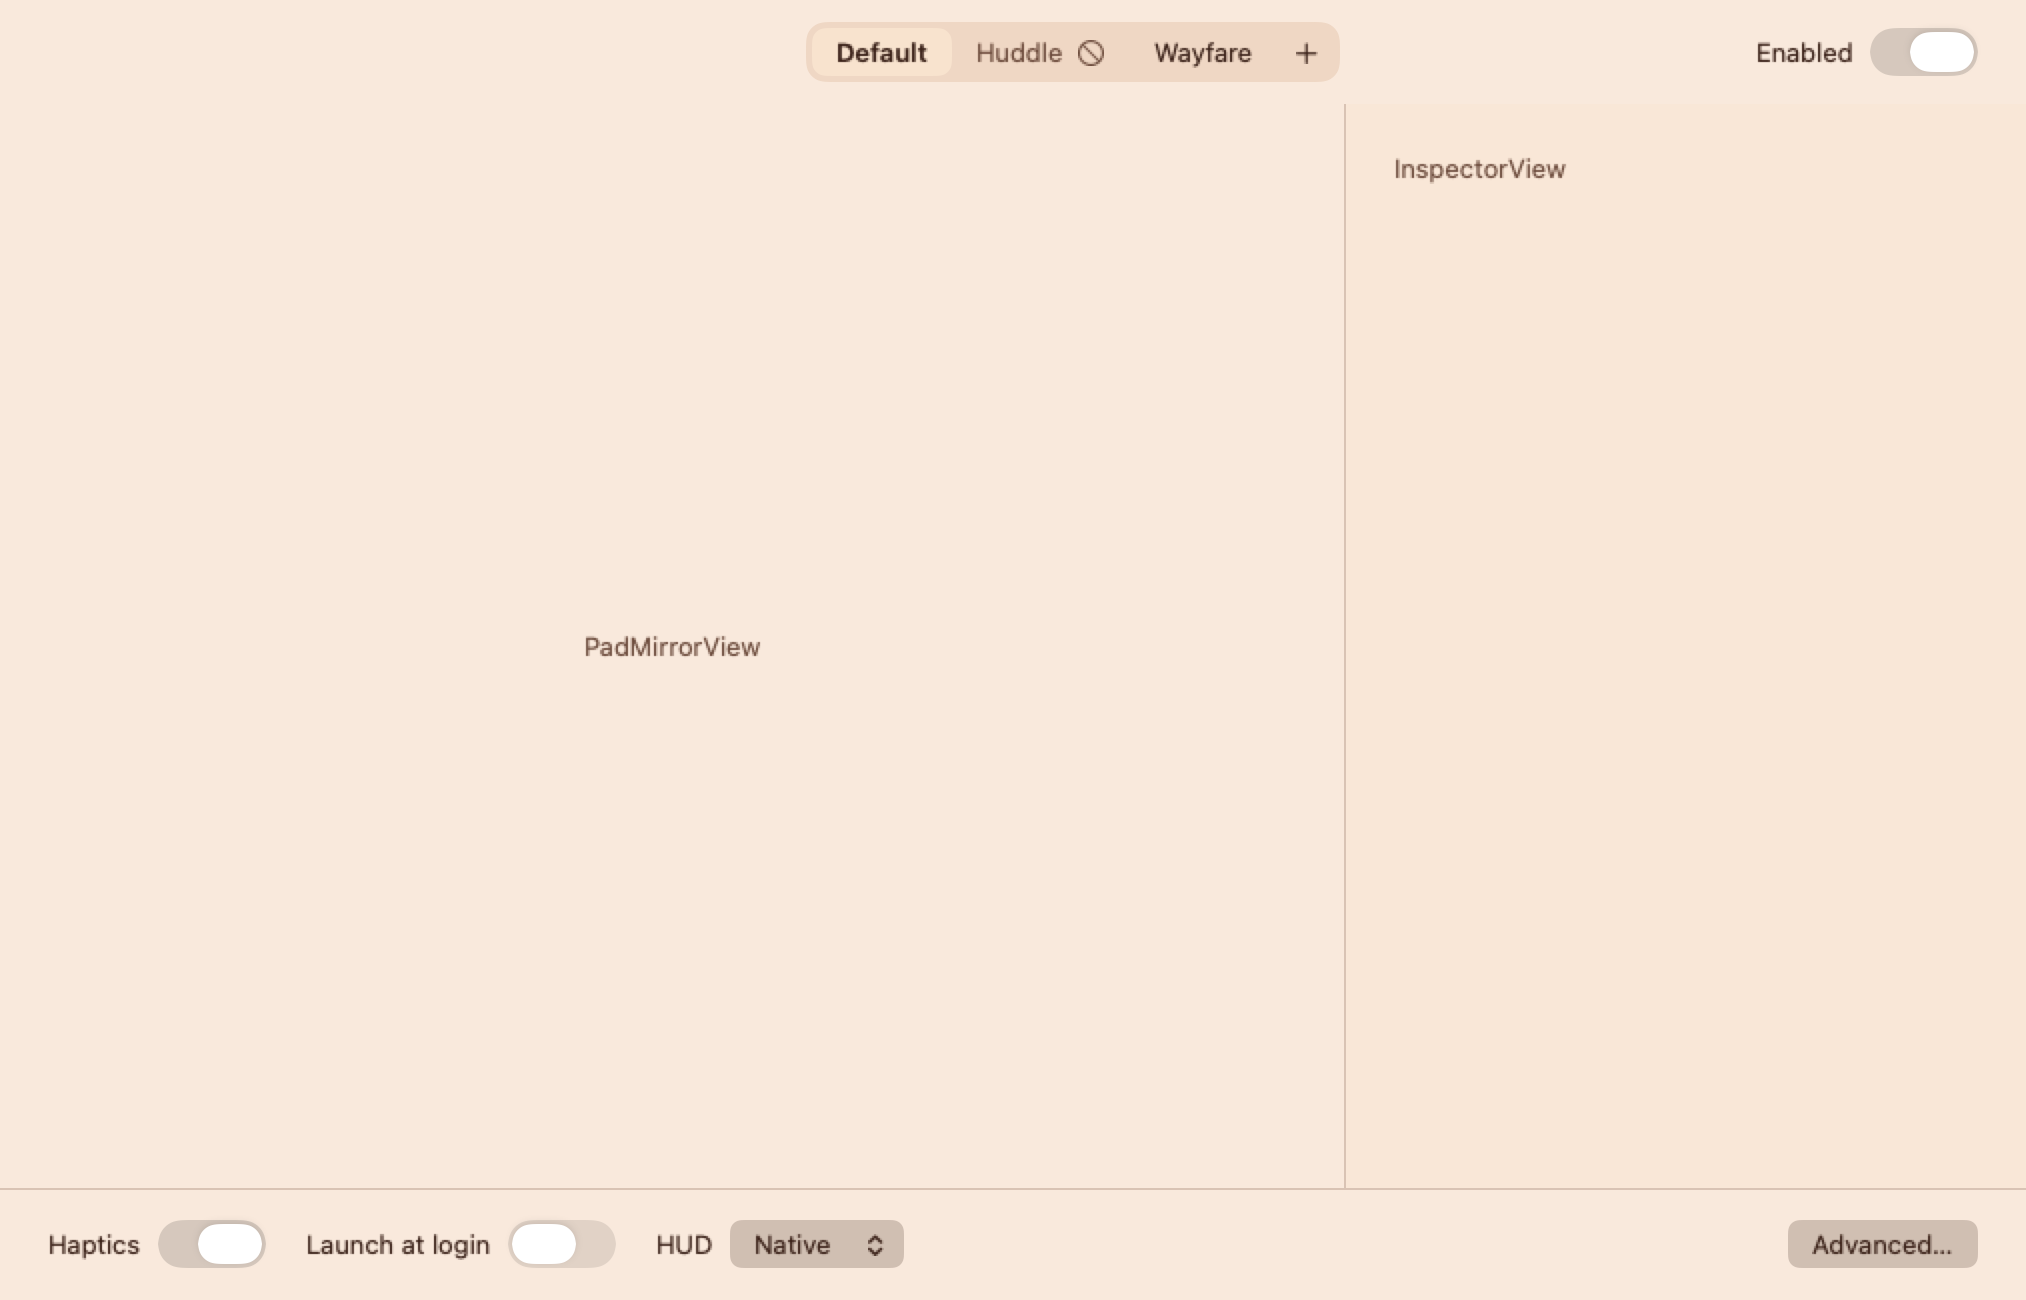
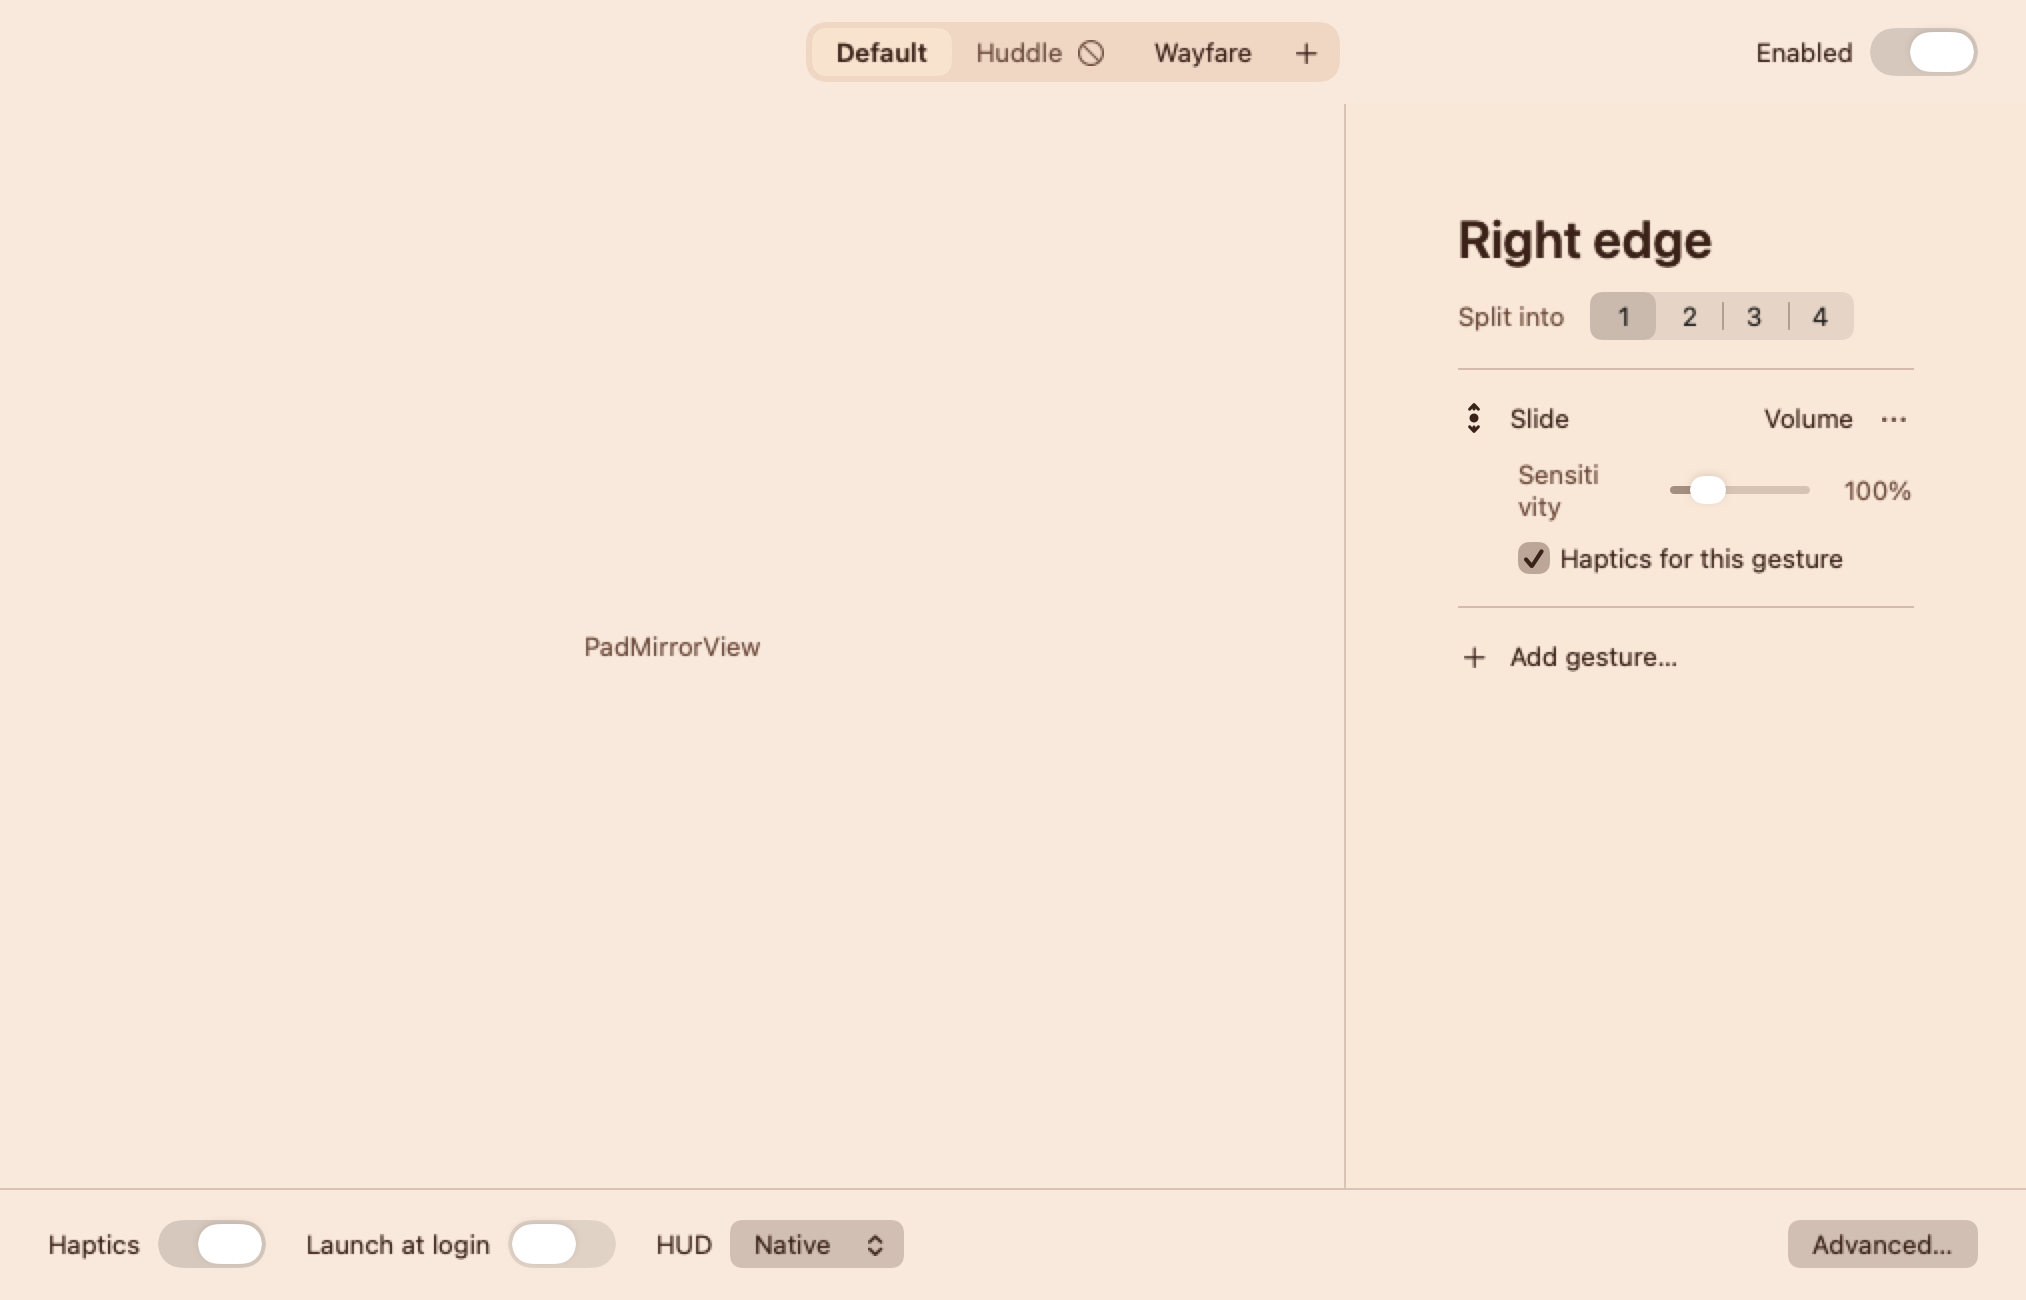
chief: picker hosted in the window; overlap note lives in the inspector only; re-shot batch 16 with the real inspector; BRAND.md (design session)

diff --git a/Sources/EdgyUI/Window/SettingsWindowView.swift b/Sources/EdgyUI/Window/SettingsWindowView.swift
@@ -49,6 +49,7 @@ public struct SettingsWindowView: View {
         inspectorColumn(status)
       }
       .disabled(status.isReadOnly)
+      .actionPickerHost(model: model)
       footer.disabled(status.isReadOnly)
     }
     .font(Tokens.font(Tokens.typeBody))
@@ -203,9 +204,6 @@ public struct SettingsWindowView: View {
       if !status.hidesInspector {
         if case .app(let id) = model.selectedProfile, model.isLegacyProfile(model.selectedProfile) {
           LegacyNoteView { model.followDefault(bundleID: id) }
-        }
-        if let overlap = model.selectedZoneOverlap {
-          OverlapNoteView(note: overlap) { model.selectedZone = overlap.other }
         }
         InspectorView(model: model)
       }

diff --git a/docs/BRAND.md b/docs/BRAND.md
@@ -1,0 +1,248 @@
+# Edgy brand book
+
+Start here before you make anything that looks or sounds like Edgy: app UI, an icon, a screenshot, the website, the landing page, a social post, a launch video.
+
+- **Product UI:** `docs/BRIEF.md` § Design is canonical. It holds the exact tokens, the 10 bones (hard rules every UI PR is checked against), every surface spec and the copy tables. This book summarises it and never overrides it. **When this file and BRIEF disagree, BRIEF wins.**
+- **Everything outside the app** (website, landing page, social, README screenshots): this book is the guide. See § Applying it outside the app.
+
+---
+
+## What Edgy is
+
+**Every edge and corner of your trackpad, mapped to whatever you want.** An open-source (MIT) macOS menu-bar app.
+
+## Personality
+
+- **A warm, friendly object you like seeing.** Not a tool panel, not a dashboard. Something you're glad to find in your menu bar.
+- **Trust.** Edgy acts on your volume, your music and your windows while you're on a call or mid-sentence. The design sells one feeling: it does exactly what you meant.
+- **Nothing fires by accident.** Every rejected touch has a reason, a measurement and a limit, and Edgy will tell you which. Showing that it said no is as much the brand as showing that it said yes.
+- **Calm and exact, never cold.** Real units (mm, ms), real numbers, plain words. Warmth comes from material and colour, not from jokes or exclamation marks.
+
+## The look
+
+**Warm glass that borrows your desktop's colour, with one rust accent that means "live".**
+
+- The window, the popover and the overlay plates are translucent material tinted by what's behind them. Edgy owns no palette: your wallpaper supplies the colour; Edgy supplies an ink colour and one accent.
+- The trackpad is drawn as a **mirror**: to scale, in its real orientation, a softly lit slab with subtle depth. You map gestures by clicking zones on that mirror.
+- **One hue.** No blue selection, no amber warning, no red error. Hierarchy comes from type size, weight, shape and the single accent.
+
+**Why this look.** It was picked on taste in all three rounds of the design sprint, over a blueprint direction, a blueprint/glass fusion and four riskier skins. The critic score went from 5/10 to 7/10 as the structure (the bones) was fixed underneath it. The product needs both things this look gives: an editor you trust, and a menu-bar presence you like.
+
+---
+
+## Colour
+
+### Tokens
+
+Copied from `docs/BRIEF.md` § Tokens. **BRIEF is canonical; if a value here ever differs, BRIEF wins.** In code, use `Tokens.swift` (transcribed from BRIEF), never literals.
+
+| Token | Light | Dark | Use |
+|---|---|---|---|
+| `ink` | `#3B2219` | `#FBEADB` | primary text, selection ring, glyph |
+| `ink2` | `#6B4A3B` | `#D9BFAE` | secondary text (must still be ≥4.5:1 on its actual background) |
+| `accent` / live | `#B4542B` | `#B4542B` | **only:** recognized touch, the live zone, ON switches, the icon dot |
+| `bar` (mapped edge) | `#D9AE8C` | `#7A5646` | mapped zone fill |
+| `line` (outlines) | `#8E6B58` | `#A58676` | unmapped hairlines, dashed pass-through (≥3:1 on the pad) |
+| pad slab | `#F8E3CE → #EFCCAB` | `#4A3026 → #3A251D` | the mirror's surface, top-left lit |
+| window material | warm translucent, ~0.8 opacity over blur | `rgba(42,27,21,.82)` | system window material tinted warm; never let text drop below 4.5:1 |
+
+### The accent rule
+
+Rust `#B4542B` means **live** and nothing else:
+- a recognized touch (the filled contact on the mirror or an overlay plate),
+- the zone being touched right now (a thin accent border on the lit bar),
+- ON switches, the key recorder while it's recording, the level bar,
+- the contact dot on the app icon.
+
+It is the same value in light and dark. It never marks selection (selection is an `ink` ring), never decorates, and never carries an error or warning. If you're tempted to use it for emphasis, use weight instead.
+
+**Warnings and errors** are told apart by icon and wording, never by colour: error = error icon + `ink`; warning = warning icon + `ink2`; info = info icon + `ink2`.
+
+### The material and the legibility rule
+
+- The material is the system's translucent window material, tinted warm. Over a busy or dark wallpaper it shifts with it, and that's the point.
+- **Legibility beats translucency, always.** Every line of text sits on enough opacity to reach ≥4.5:1 against what's actually behind it (≥3:1 for outlines on the pad). If a wallpaper breaks that, add opacity, not a second colour.
+- Overlay plates must read over both a light and a dark document. That's the worst-case test frame.
+- No glass stacked on glass: one material layer, then content.
+
+---
+
+## Type
+
+- **The system font only.** One family. No display face, no serif, no monospace in the UI.
+- **One scale:** **11 / 13 / 17 / 26**.
+  - **11:** picker group headers only.
+  - **13:** everything else. **This is the floor**: no label, caption or plate text below 13.
+  - **17:** plate values ("Volume 64%"), the Continue button.
+  - **26:** the one confident line per surface: the selected zone's name, or the onboarding headline.
+- **Weights:** regular and semibold.
+- **Numerals:** proportional figures everywhere. No space before % ("64%", never "64 %"). Units take a space ("21 mm", "300 ms").
+- Labels are never rotated.
+
+## Shape
+
+- **Radii:** the window uses the system radius; controls 6–8; plates 12–14; zone bars have fully rounded ends. Never one radius for everything, and never a radius nested inside a radius.
+- **The pad drawing (the mirror):** to scale from the device's real sensor size, in the trackpad's orientation. A softly lit slab: top-left light, a soft lower edge, a touch that presses in slightly. No rulers, dimension lines or mm callouts; the outline is the measurement. No glow halos.
+- **Zone shapes** (state is carried by shape, not only colour):
+
+| State | Shape |
+|---|---|
+| Mapped edge | solid inset bar with rounded ends |
+| Unmapped edge | hairline outline |
+| Mapped corner | solid rounded square with its action icon inside |
+| Pass-through corner | dashed rounded square (dashed means pass-through and nothing else) |
+| Selected | `ink` ring around the zone |
+| Live | accent contact plus a thin accent border on the lit bar |
+| Recognized touch | filled accent contact |
+| Rejected touch | hollow, struck circle |
+
+- Labels join their zone: tabs growing from the strip in the same fill, no gap, never floating pills.
+- **Gesture icons:** one family, one stroke weight, one grid. Swipe up and swipe down must differ clearly. No emoji or Unicode arrows.
+
+---
+
+## Iconography
+
+### Menu-bar glyph: "Lit edge"
+
+A rounded-rectangle outline of the pad, open on the right, with a separate heavy vertical bar standing for the lit right edge. A monochrome template image, about 16 × 11 pt, tinted by the system for light, dark and highlighted bars.
+
+States change the **shape**, never the colour:
+
+| State | Glyph |
+|---|---|
+| Normal | outline plus the heavy right bar |
+| Test Mode | adds a small solid dot inside the outline (3.2 pt; must be ≥2 pt at 1×) |
+| Paused | the heavy bar becomes two short stacked dashes |
+| Disabled / No trackpad | normal artwork at 40% opacity (applied in code) |
+| No Accessibility / Broken config | the heavy bar becomes an exclamation (a short bar plus a dot) |
+
+Precedence when several apply: Broken config > No Accessibility > No trackpad > Paused > Disabled > Test Mode. Show the top one only.
+
+### App icon: "Exact"
+
+A pale-stone rounded tile with a gentle light-to-shade gradient, carrying a graphite line drawing of the pad at true proportion with a heavy right edge (the glyph, enlarged). At ≥128 px it adds one rust contact dot on the heavy edge; at 64 px and below there is no dot, and a heavier small-size drawing is used. No banding at the tile edge.
+
+### Where the assets live
+
+`docs/design/assets/` (spec and export notes in its `README.md`):
+- `glyph-<state>.pdf`: 7 template-image PDFs, 16 × 11 pt, pure vector.
+- `AppIcon.icns`, `AppIcon.iconset/`, `icon-1024.png`.
+- `svg/`: the vector sources (glyph per state, `app-icon.svg` with the dot as group `#contact-dot`, `app-icon-small.svg`).
+
+Use these files. Don't redraw the glyph or icon in code or in a web page; export from the SVG sources.
+
+### Open: the "CI" question (G1 device check)
+
+One critic read the glyph as the letters "CI" before reading it as a pad. The same reading is worth checking on the app icon at large sizes. **Judge both at real size, in the real menu bar and Dock, light and dark, before freezing them.** Until that check passes, treat the glyph and icon as provisional for marketing: don't build a logo lockup or wordmark around them.
+
+---
+
+## Voice and copy
+
+**Plain, specific, measured.** Name the thing, the number and the limit.
+
+- **One clause.** No colon headlines, no two-part lines, no slogans.
+- **Real units.** "21 mm", "300 ms", "47 min left". The number is the reassurance.
+- **Say it once,** next to the thing it describes. Don't restate a status in a caption, chip or footer.
+- **Inform, don't alarm.** Interaction notes use an info icon and calm wording; they never read as an error.
+- **Describe what the user feels,** not the mechanism ("Slide this far to move one app.").
+
+### Do
+
+- "Ignored: palm, 21 mm wide, limit 18 mm"
+- "Ignored: typing, last key 200 ms ago, limit 500 ms"
+- "These need a slide."
+- "Run one finger up the right edge."
+- "Tap waits 300 ms here to tell it from a double-tap."
+- "Let Edgy run your actions" (onboarding headline)
+- "Paused, 47 min left"
+- "Would set Volume" (Test Mode dry run)
+
+### Don't
+
+| Don't | Why |
+|---|---|
+| "Precision you can read: every zone has a real size." | Two-part oracular line, and a slogan |
+| "More actions coming soon" | Filler or roadmap copy |
+| "Right edge · 1 finger · recognized · Default profile" | Middot-chained metadata |
+| "Rejected!" / "Error: palm detected" | Alarm wording; no measurement, no limit |
+| "64 %" | Space before % |
+| "Test mode" pill next to the glyph | Restates what the glyph's dot already says |
+
+The full rejection-copy table (every reason, its measure and its limit) is in BRIEF bone 4.
+
+---
+
+## Kill list (never ship these)
+
+Copied from `docs/BRIEF.md` § Kill list; BRIEF wins.
+
+- Tracked micro-caps eyebrow labels.
+- A grey rounded rectangle with a drop shadow as the trackpad, or brushed metal.
+- A sidebar.
+- N equal cards, one per zone.
+- Gradient blobs, neon glow, or halos on the touch dot.
+- Emoji or Unicode arrows as gesture icons.
+- Middot-chained metadata strings.
+- Dimension lines or rulers.
+- A space before %.
+- More than one typeface family.
+- Rotated labels.
+- Hero numerals.
+- A launcher grid of round buttons.
+- Filler or roadmap copy ("more actions coming").
+- Generic coloured squares as app icons.
+- A second hue.
+- Any third-party product name or look-alike.
+
+---
+
+## Applying it outside the app
+
+The website, the landing page, social posts, launch video frames and README screenshots should feel like the app is sitting on the page. Translate the system; don't invent a second brand.
+
+- **Background:** warm, wallpaper-like fields: soft desert-dune tones (sand, clay, dusk) or a generic photographic wallpaper feel. The page plays the role of the user's desktop. Never a flat grey, never a gradient blob.
+- **Panels:** glass panels on that background, with enough opacity that text reaches ≥4.5:1 everywhere, including on narrow phone widths where the background shifts behind the text. One material layer; no glass on glass.
+- **Colour:** `ink` and `ink2` for text, rust `#B4542B` **only** for "live" (the touch on the hero mirror) or the single primary action (download / buy). One rust thing per view. No second hue, no link blue: links are `ink` with an underline.
+- **Type:** the system font stack, `font-family: system-ui, -apple-system, sans-serif;` (`-apple-system` is a CSS keyword, not a product name, and passes the denylist). Same scale idea: one 26-equivalent confident line per section (scale it up for a hero, but keep one size per role), body at the 13-equivalent floor or above, regular and semibold only.
+- **Hero:** the to-scale trackpad mirror with a live touch on it: the slab, the zone shapes, a rust contact sliding up the right edge, and a plate reading the real result ("Volume 64%" / "Right edge, slide"). Show a rejection too ("Ignored: palm, 21 mm wide, limit 18 mm"); it's the most convincing frame Edgy has.
+- **Headline:** one confident clause. No colon, no tagline pair, no slogan. "Every edge and corner of your trackpad, mapped to whatever you want." is the reference.
+- **Product names and imagery:** no third-party product names or logos, no device photos of branded hardware, no look-alike UI of other apps. Draw the trackpad as Edgy's own mirror, never photograph one. Screenshots must not show other apps' names or icons (use invented app names, as the design renders do).
+- **README screenshots:** capture the real app on a warm wallpaper, light and dark, at 2×. Crop to the window or the popover; don't add drop-shadow frames, device mockups or arrows.
+- **Social and video:** the overlay plates and the live mirror are the screenshot-able moments. Keep plate text ≥13-equivalent and the one accent; no lower-third sports graphics, no neon, no glow.
+- **The kill list applies to the web too.** Especially: no eyebrow micro-caps, no N equal feature cards, no hero numerals, no roadmap copy.
+- **Glyph and icon:** use the exported assets as they are (see Iconography). Respect the open "CI" check before building a logo around them.
+
+---
+
+## Assets index
+
+- **Final reference renders** (look 26F-1TVB), `docs/design/final/`:
+  - `26F-1TVB-A.png`: Settings editor, light
+  - `26F-1TVB-B.png`: Settings editor, dark, with the picker and an interaction note
+  - `26F-1TVB-C.png`: Onboarding step 2, "Try it"
+  - `26F-1TVB-D.png`: Test Mode overlay
+  - `26F-1TVB-E.png`: Menu-bar popover
+  - `26F-1TVB-F.png`: App icon and menu glyph
+- **Supplement renders** (approved 2026-11-07), `docs/design/final/supp/`:
+  - `26F-SUPP-S1.png`: an app profile tab (inheriting)
+  - `26F-SUPP-S2.png`: the add-app popover, step 2 ("Start from")
+  - `26F-SUPP-S3.png`: binding parameter editors, dark
+  - `26F-SUPP-S4.png`: the picker at catalog scale, light
+  - `26F-SUPP-S5.png`: system states (glyph in every state, plus paused / no Accessibility / no trackpad popovers)
+  - `26F-SUPP-S6.png`: onboarding step 1, Accessibility
+  - `26F-SUPP-S7.png`: onboarding step 3, presets
+  - `26F-SUPP-S8.png`: plates and issues (level plate, display check, hold plate)
+- **Production assets:** `docs/design/assets/` and its `README.md`.
+- **Build snapshot critiques:** `docs/design/critiques/batch-N.md` (one per merged UI batch, checked against the final renders), with the snapshots in `docs/design/build-shots/`.
+- Renders show the feel; when a render and BRIEF disagree, BRIEF wins.
+
+## Provenance
+
+- A three-round design sprint ran 2026-11-04 → 11-07. 25 design languages were narrowed to 7 directions, rendered blind and critiqued by blind critics after the owner's gut reactions were recorded.
+- Round 1 (7 directions) produced the bones and the kill list: `docs/design/bones.md`, `docs/design/critic-r1.md`, `docs/design/canvas-prompts-r1.md`.
+- Round 2 kept warm glass as the base and killed the sidebar directions; separate sheets fixed the overlay and the glyph: `critic-r2.md`, `canvas-prompts-r2.md`.
+- Round 3 tested warm glass against four riskier skins and picked it again on taste (taste-only stop rule), merging subtle slab depth: `critic-r3.md`, `canvas-prompts-r3.md`.
+- The final render (`canvas-prompts-final.md`) went through one polish pass; the critic score went 5 → 6 → 7/10, with 0 bone FAILs from round 3 on.
+- The remaining gaps became build rules in `docs/BRIEF.md` § Design, the supplement screens were approved, and the production assets were exported to `docs/design/assets/`.
